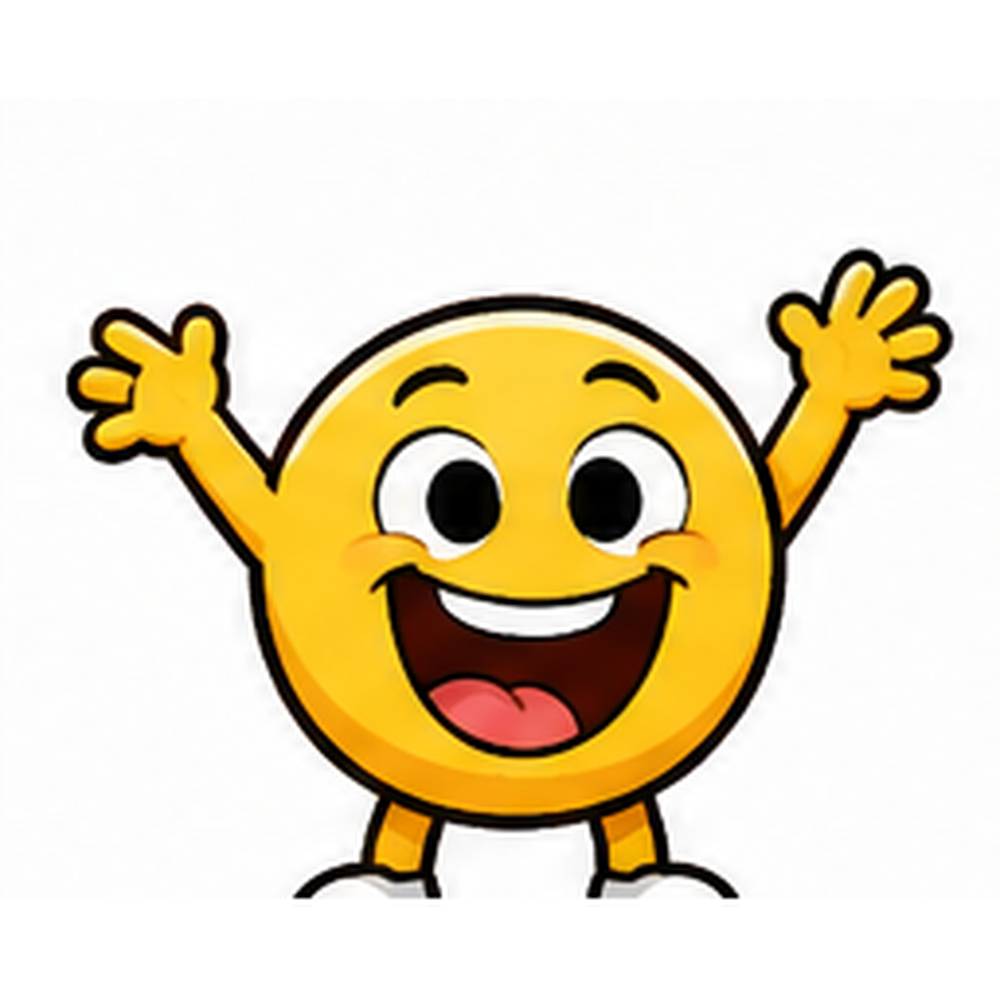
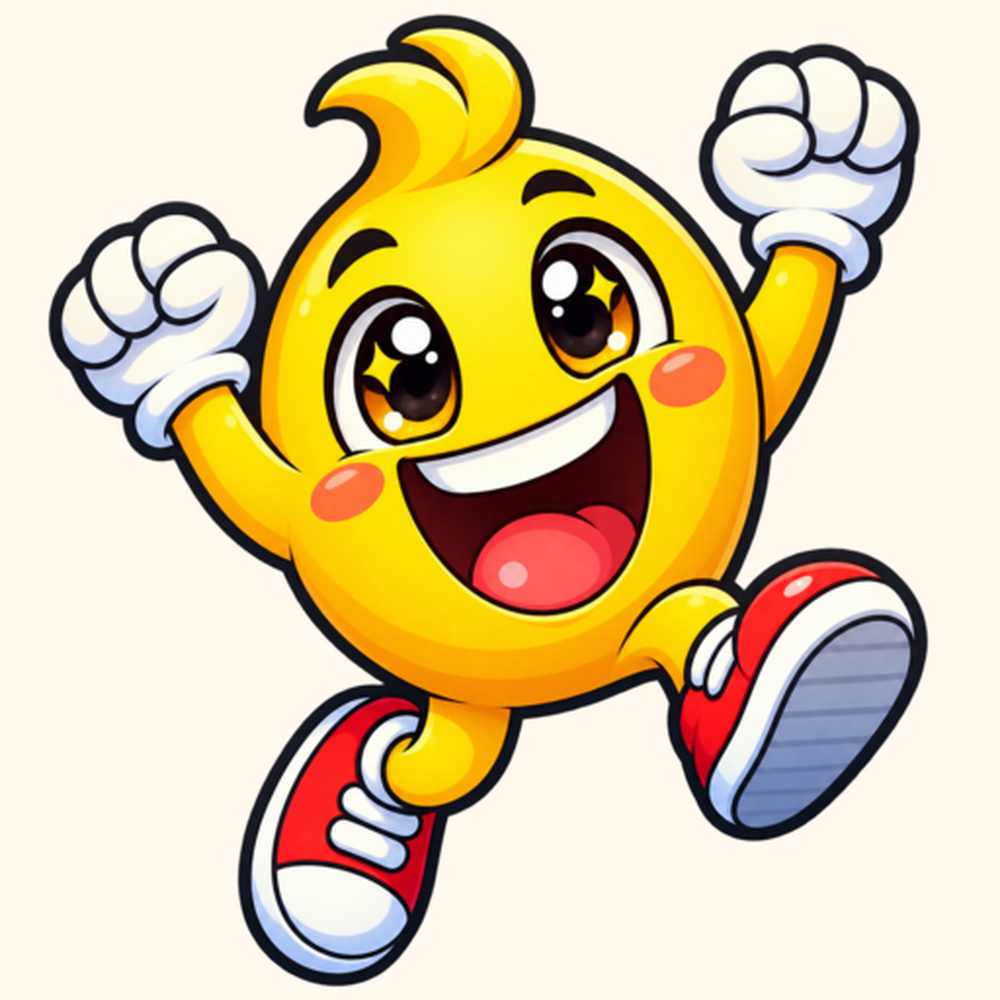
Dagsformen: bruk enkeltbildene i media/aktiviteter/feelings for Emoji
Emoji-temaet henter nå de 30 individuelle, gjennomsiktige PNG-bildene fra
media/aktiviteter/feelings/ (emoji-01-glad.png … -30-utslitt.png) i stedet
for det gamle sprite-arket i media/aktiviteter/dagsformen/emoji/ — samme
mønster som Følelsesbildet (aktiviteter/folelsesbildet/index.html) bruker.
Slettet det nå ubrukte sprite-arket (30 filer).

Følelseslistene (MOODS) er oppdatert til de riktige, autoritative
navnene fra filnavnene (Glad, Begeistret, Leken, … Utslitt) i stedet for
de tidligere gjettede etikettene fra sprite-uttrykkene.

Siden bare Emoji har egne bilder foreløpig, er de andre seks temaene
(Dyr, Anime, Superhelter, Klosser, Piksel, Dyrevenner) låst i både
temavelgeren og "Bytt figurer"-overlayen — grået ut, ikke klikkbare, med
en "Kommer snart"-merkelapp — samme visuelle språk som de låste pillene i
Følelsesbildet. Koden og forhåndsvisningsbildene deres ligger urørt, så de
kan låses opp igjen med bare å fjerne laast:true når bilder er klare.

Regenerert forsidens kortbilde (media/aktiviteter/dagsformen.png) fra det
nye Emoji-bildet, siden det gamle sprite-uttrykket ikke lenger finnes i
appen.

diff --git a/aktiviteter/dagsformen/index.html b/aktiviteter/dagsformen/index.html
@@ -186,6 +186,19 @@
   .tema-kort:hover  { transform: translateY(-3px); box-shadow: 0 9px 0 var(--ink); }
   .tema-kort:active { transform: translateY(4px);  box-shadow: 0 2px 0 var(--ink); }
   .tema-notat { color: var(--muted); font-weight: 700; font-size: .82rem; text-align: center; }
+  /* Låste temaer (bilder ikke klare ennå) — samme visuelle språk som de
+     låste pillene i Følelsesbildet: dempet, gråtonet, ikke klikkbar. */
+  .tema-kort:disabled {
+    background: #ece7de; color: var(--muted); border-color: #b7ada0;
+    box-shadow: 0 6px 0 #b7ada0; cursor: not-allowed; opacity: .8;
+  }
+  .tema-kort:disabled:hover { transform: none; box-shadow: 0 6px 0 #b7ada0; }
+  .tema-kort:disabled img { filter: grayscale(70%); opacity: .7; border-color: #b7ada0; }
+  .tema-snart {
+    font-family: 'Nunito', sans-serif; font-weight: 800; font-size: .68rem;
+    color: var(--muted); background: #fff; border: 2px solid #b7ada0; border-radius: 999px;
+    padding: 2px 10px;
+  }
 
   /* ── FØLELSESHJUL / VALG-RUTENETT ── */
   .mood-grid {
@@ -414,30 +427,48 @@ function lagRomkode() {
 /* ══════════════════════════════════════════════════════════════════════
    TEMAER — legg til et nytt tema ved å legge en ny rad her og droppe 30
    bilder (00.jpg–29.jpg, samme rekkefølge/følelser som de andre temaene)
-   i media/aktiviteter/dagsformen/{mappe}/. Ingen andre kodeendringer trengs.
-   ══════════════════════════════════════════════════════════════════════ */
+   i media/aktiviteter/dagsformen/{mappe}/, og fjern laast:true for det
+   temaet. De andre er låst inntil videre — se FEELINGS_BILDER under; bare
+   Emoji-temaet har egne, ferdige bilder foreløpig (samme mønster som
+   Følelsesbildet, se aktiviteter/folelsesbildet/index.html). */
 const THEMES = {
   emoji:       { navn: 'Emoji',       mappe: 'emoji' },
-  dyr:         { navn: 'Dyr',         mappe: 'dyr' },
-  anime:       { navn: 'Anime',       mappe: 'anime' },
-  superhelter: { navn: 'Superhelter', mappe: 'superhelter' },
-  klosser:     { navn: 'Klosser',     mappe: 'klosser' },
-  piksel:      { navn: 'Piksel',      mappe: 'piksel' },
-  dyrevenner:  { navn: 'Dyrevenner',  mappe: 'dyrevenner' },
+  dyr:         { navn: 'Dyr',         mappe: 'dyr',         laast: true },
+  anime:       { navn: 'Anime',       mappe: 'anime',       laast: true },
+  superhelter: { navn: 'Superhelter', mappe: 'superhelter', laast: true },
+  klosser:     { navn: 'Klosser',     mappe: 'klosser',     laast: true },
+  piksel:      { navn: 'Piksel',      mappe: 'piksel',      laast: true },
+  dyrevenner:  { navn: 'Dyrevenner',  mappe: 'dyrevenner',  laast: true },
 };
 
 /* 30 følelser, i samme rekkefølge som figurene ligger i hvert temabilde
-   (rad for rad, venstre mot høyre). Brukes bare som alt-tekst/tittel — den
-   anonyme klasseveggen viser aldri disse ordene. */
+   (rad for rad, venstre mot høyre). Brukes som alt-tekst/tittel — den
+   anonyme klasseveggen viser aldri disse ordene — og som visningsnavn for
+   Emoji-bildene under. */
 const MOODS = [
-  'Superglad','Jubler','Tullete','Selvsikker','Flau','Usikker',
-  'Rolig','Trygg','Energisk','Avslappet','Kul','Sjenert',
-  'Litt flau','Forvirret','Bekymret','Redd','Nervøs','Stresset',
-  'Irritert','Sint','Rasende','Skøyeraktig','Såret','Kjeder meg',
-  'Litt lei meg','Lei meg','Ensom','Livredd','Overveldet','Nedfor'
+  'Glad','Begeistret','Leken','Stolt','Takknemlig','Nysgjerrig',
+  'Rolig','Trygg','Håpefull','Lettet','Modig','Forelsket',
+  'Sjenert','Usikker','Forvirret','Nervøs','Bekymret','Stresset',
+  'Irritert','Sint','Frustrert','Sjalu','Skamfull','Rastløs',
+  'Trist','Skuffet','Ensom','Redd','Overveldet','Utslitt'
+];
+
+/* Egne bilder for Emoji-temaet — se media/aktiviteter/feelings/. Navngitt
+   emoji-01-glad.png … -30-utslitt.png; filnavnet holder samme rekkefølge
+   som MOODS over. */
+const FEELINGS_BILDER = [
+  'emoji-01-glad.png', 'emoji-02-begeistret.png', 'emoji-03-leken.png', 'emoji-04-stolt.png',
+  'emoji-05-takknemlig.png', 'emoji-06-nysgjerrig.png', 'emoji-07-rolig.png', 'emoji-08-trygg.png',
+  'emoji-09-håpefull.png', 'emoji-10-lettet.png', 'emoji-11-modig.png', 'emoji-12-forelsket.png',
+  'emoji-13-sjenert.png', 'emoji-14-usikker.png', 'emoji-15-forvirret.png', 'emoji-16-nervos.png',
+  'emoji-17-bekymret.png', 'emoji-18-stresset.png', 'emoji-19-irritert.png', 'emoji-20-sint.png',
+  'emoji-21-frustrert.png', 'emoji-22-sjalu.png', 'emoji-23-skamfull.png', 'emoji-24-rastlos.png',
+  'emoji-25-trist.png', 'emoji-26-skuffet.png', 'emoji-27-ensom.png', 'emoji-28-redd.png',
+  'emoji-29-overveldet.png', 'emoji-30-utslitt.png',
 ];
 
 function bildeSti(temaId, i) {
+  if (temaId === 'emoji') return `/media/aktiviteter/feelings/${encodeURIComponent(FEELINGS_BILDER[i])}`;
   const tema = THEMES[temaId] || THEMES.emoji;
   return `/media/aktiviteter/dagsformen/${tema.mappe}/${String(i).padStart(2, '0')}.jpg`;
 }
@@ -460,8 +491,14 @@ function tegnTemaGrid(container, onPick) {
     const kort = document.createElement('button');
     kort.type = 'button';
     kort.className = 'tema-kort';
-    kort.innerHTML = `<img src="${bildeSti(id, 0)}" alt=""><span>${t.navn}</span>`;
-    kort.onclick = () => onPick(id);
+    kort.innerHTML = `<img src="${bildeSti(id, 0)}" alt=""><span>${t.navn}</span>`
+      + (t.laast ? '<span class="tema-snart">Kommer snart</span>' : '');
+    if (t.laast) {
+      kort.disabled = true;
+      kort.title = 'Bilder kommer snart';
+    } else {
+      kort.onclick = () => onPick(id);
+    }
     container.appendChild(kort);
   });
 }
